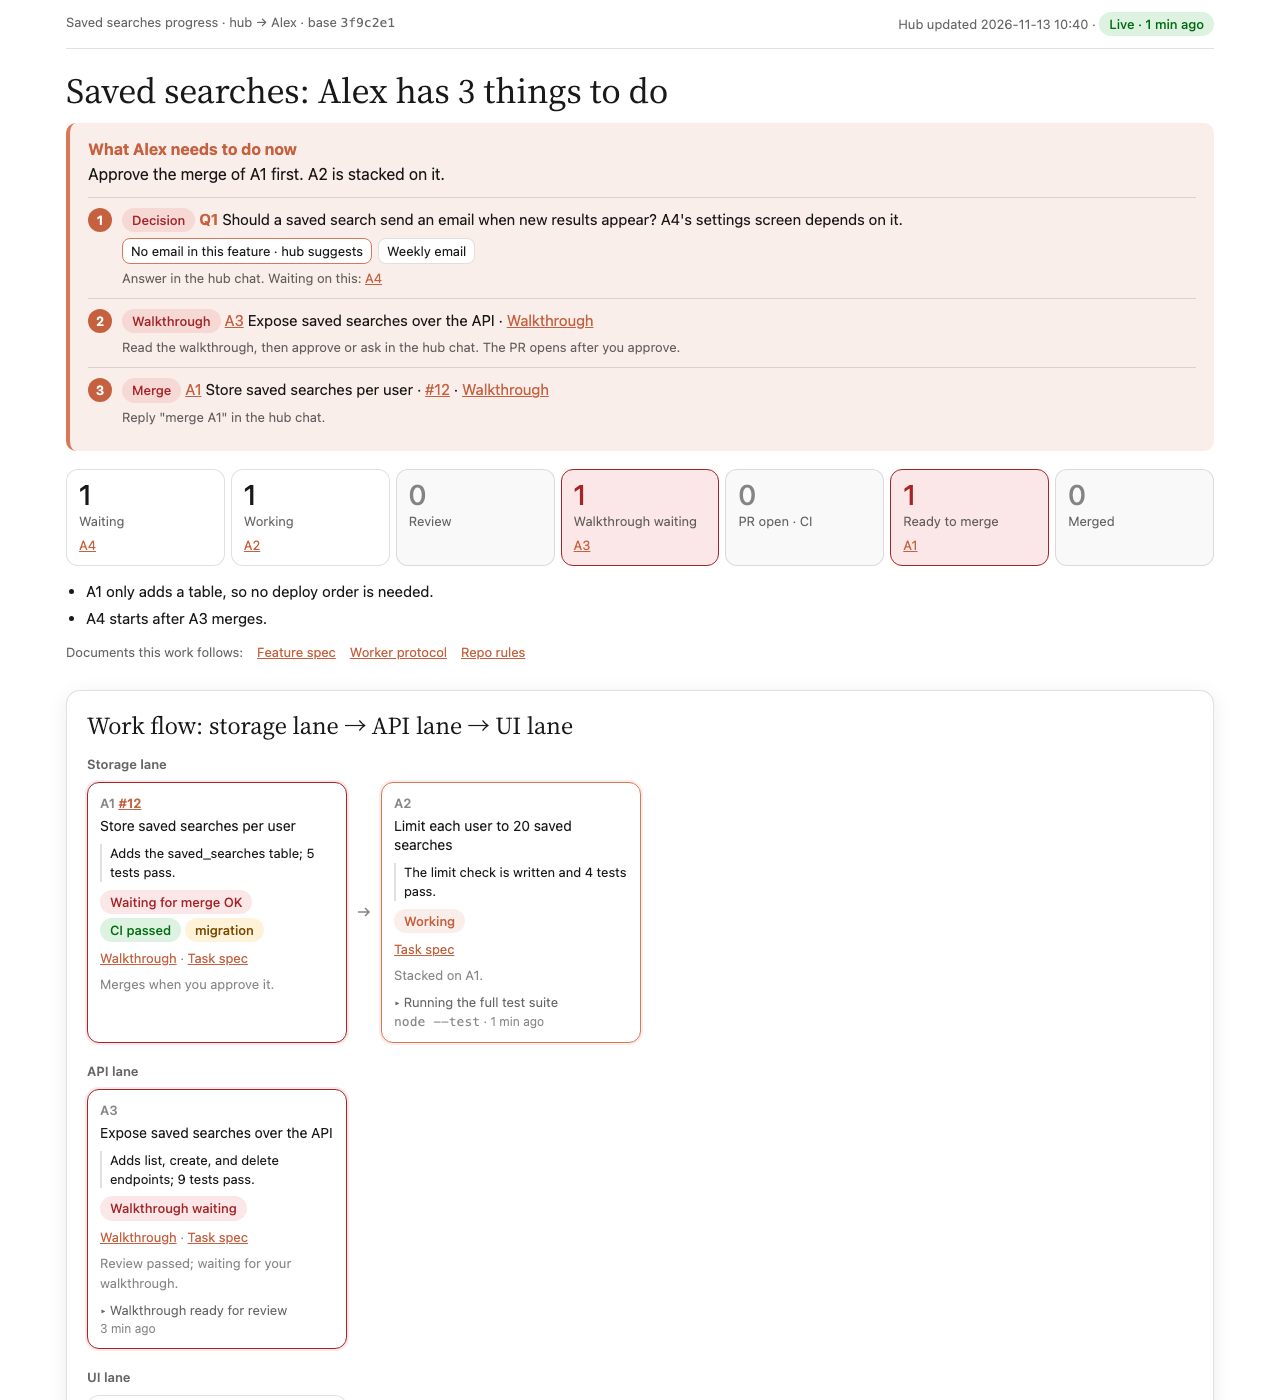
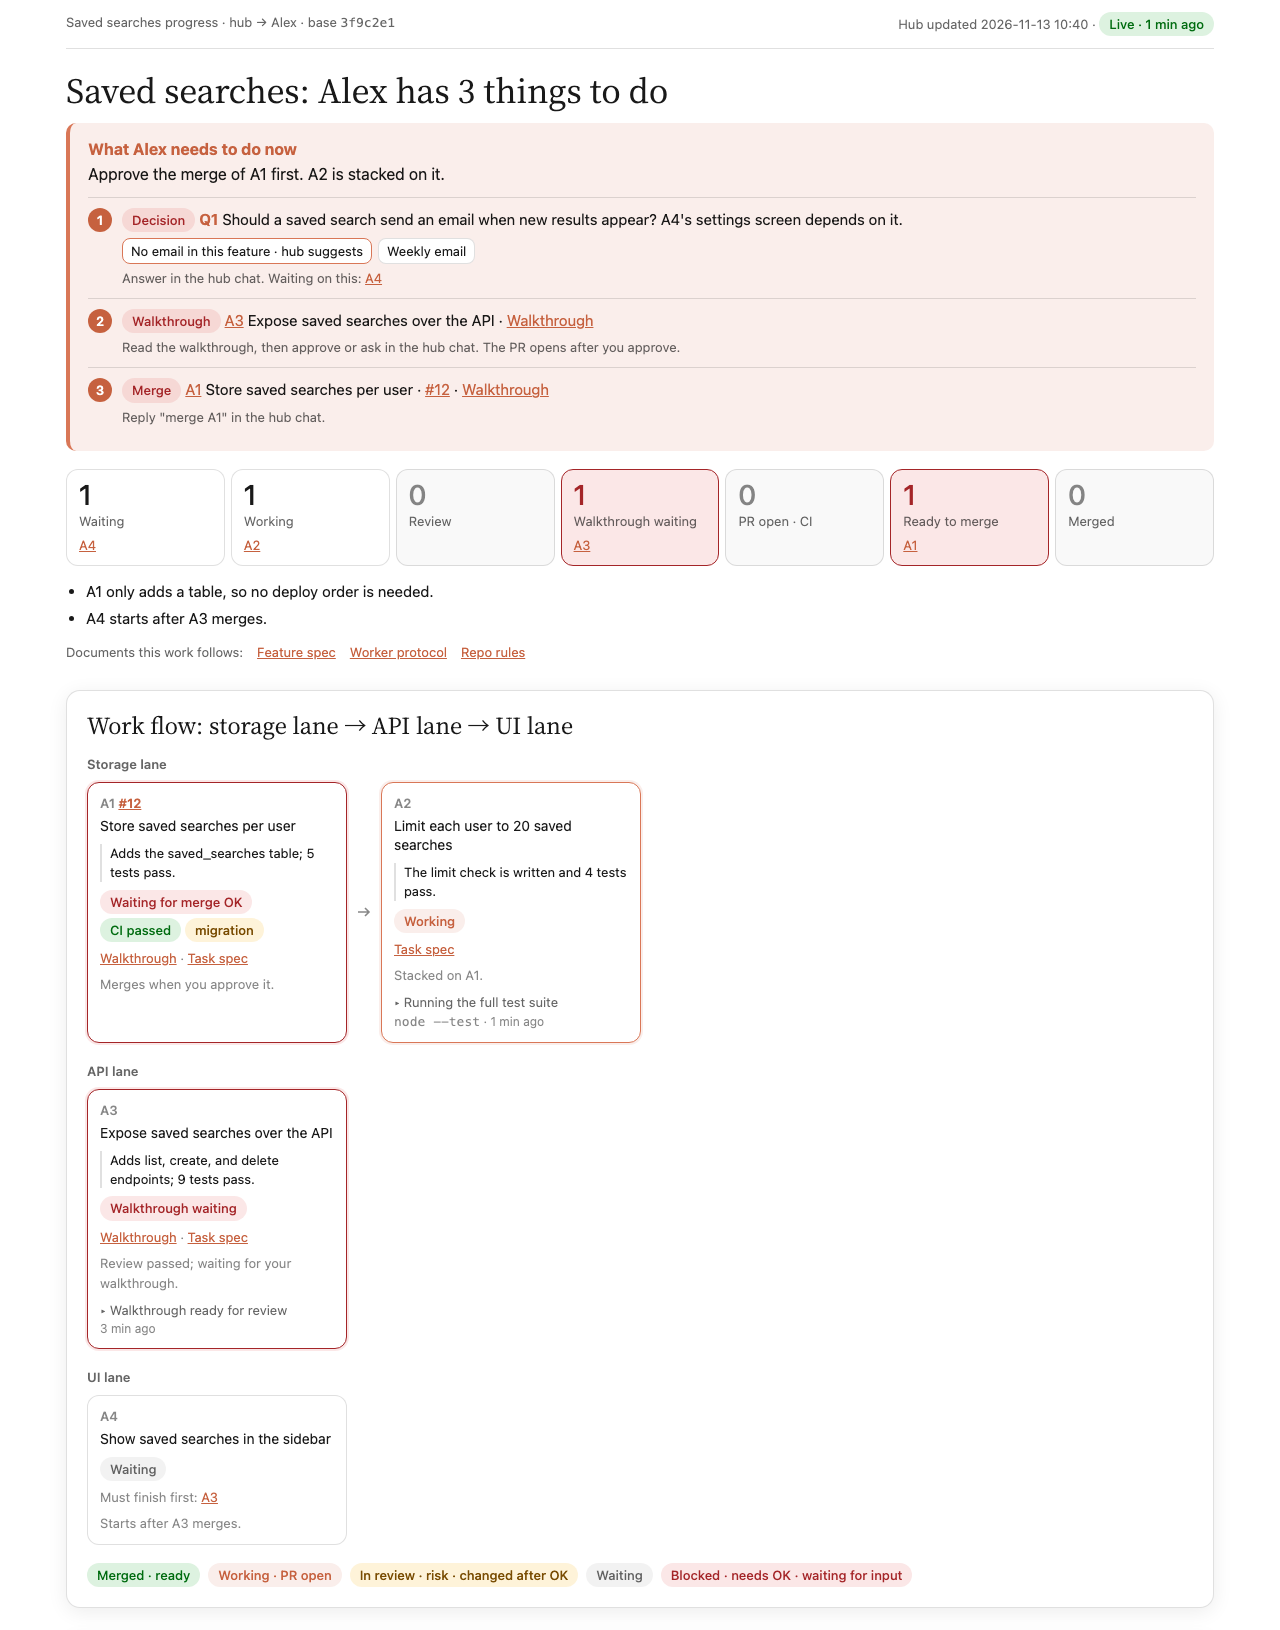
Show the prerequisite check, run defaults, and hub folder in the README

diff --git a/README.md b/README.md
@@ -16,7 +16,7 @@ You discuss a feature with Claude Code or Codex, then invoke orca-hub. Your sess
 
 ### When a hub is worth it
 
-- Use a hub when the work is two or more PRs (more than one outcome, or over about 15 files / 300 changed lines), and at least two of them can run at the same time or stack.
+- Use a hub when the work is two or more PRs (more than one outcome, or over the size target of ≤ 15 files / 300 changed lines, counting hand-written code and tests), and at least two of them can run at the same time or stack.
 - Skip it for one small PR, or for work that cannot be split into PRs that merge alone. The hub says so and offers to do the work in your session instead.
 
 ### Prerequisites
@@ -31,6 +31,8 @@ The skill installs nothing. It checks these itself before a hub starts, with one
 ```sh
 node <skill folder>/scripts/preflight.cjs
 ```
+
+It prints one `missing:` line per problem. A missing `orchestration` skill comes with the command that installs it: `orca skills install --skill orchestration`.
 
 ### Install
 
@@ -64,6 +66,7 @@ npx skills add ddevkim/skills --skill orca-hub
 The hub then asks you for:
 
 - confirmation of the spec it wrote from your discussion,
+- once, whether to keep its run defaults (the worker agent and model, how many workers run at a time, the PR assignee),
 - product decisions it should not guess,
 - a walkthrough of each PR before the PR opens,
 - approval of each merge,
@@ -71,7 +74,7 @@ The hub then asks you for:
 
 ### Language
 
-The dashboard shows its labels in Korean or English, from `lang` (`"ko"` or `"en"`) in the hub's `state.js`.
+The dashboard shows its labels in Korean or English, from `lang` (`"ko"` or `"en"`) in the hub's `state.js`. The skill creates that file in its hub folder, `<workspaces root>/_hub/<feature>/state.js` (by default `$HOME/orca/workspaces/<repo>/_hub/<feature>/`).
 
 ### Update
 
